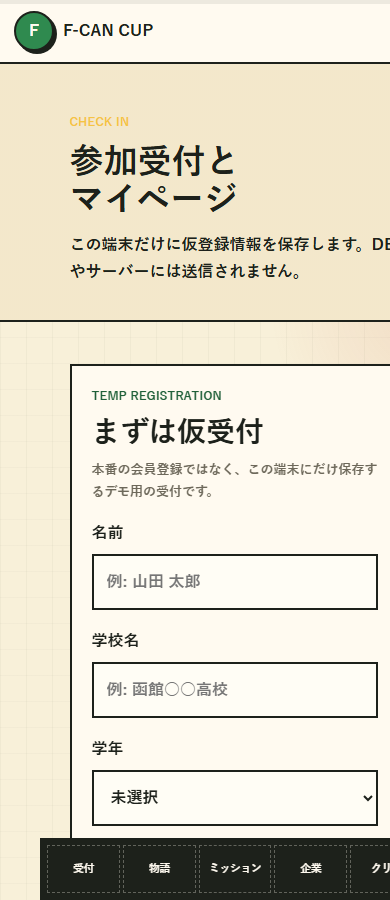
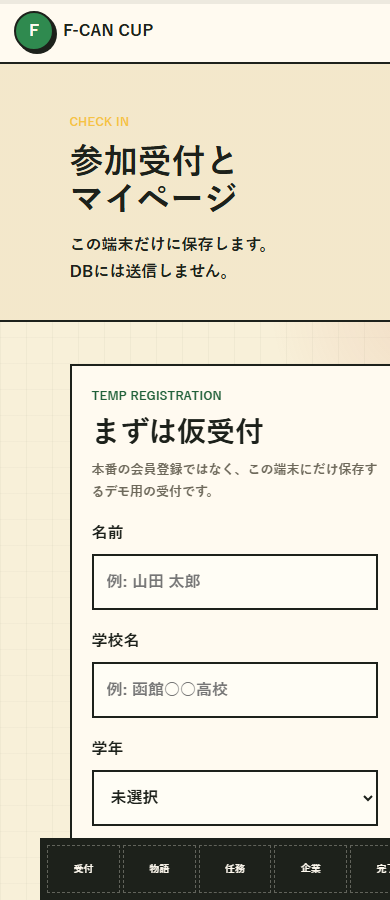
追加

diff --git a/styles.css b/styles.css
@@ -158,7 +158,7 @@ img {
   color: var(--chalk);
   background: transparent;
   border: 1px dashed rgba(255, 250, 240, 0.3);
-  font-size: 10.5px;
+  font-size: 10px;
   font-weight: 900;
 }
 
@@ -504,6 +504,7 @@ h3 {
   margin: 14px 0 0;
   font-size: 16px;
   font-weight: 900;
+  word-break: break-all;
 }
 
 .story-section {

diff --git a/index.html b/index.html
@@ -122,7 +122,7 @@
         <div class="page-hero-inner">
           <p class="eyebrow">CHECK IN</p>
           <h1>参加受付と<br />マイページ</h1>
-          <p>この端末だけに仮登録情報を保存します。DBやサーバーには送信されません。</p>
+          <p>この端末だけに保存します。<br />DBには送信しません。</p>
         </div>
       </section>
       <section class="section">